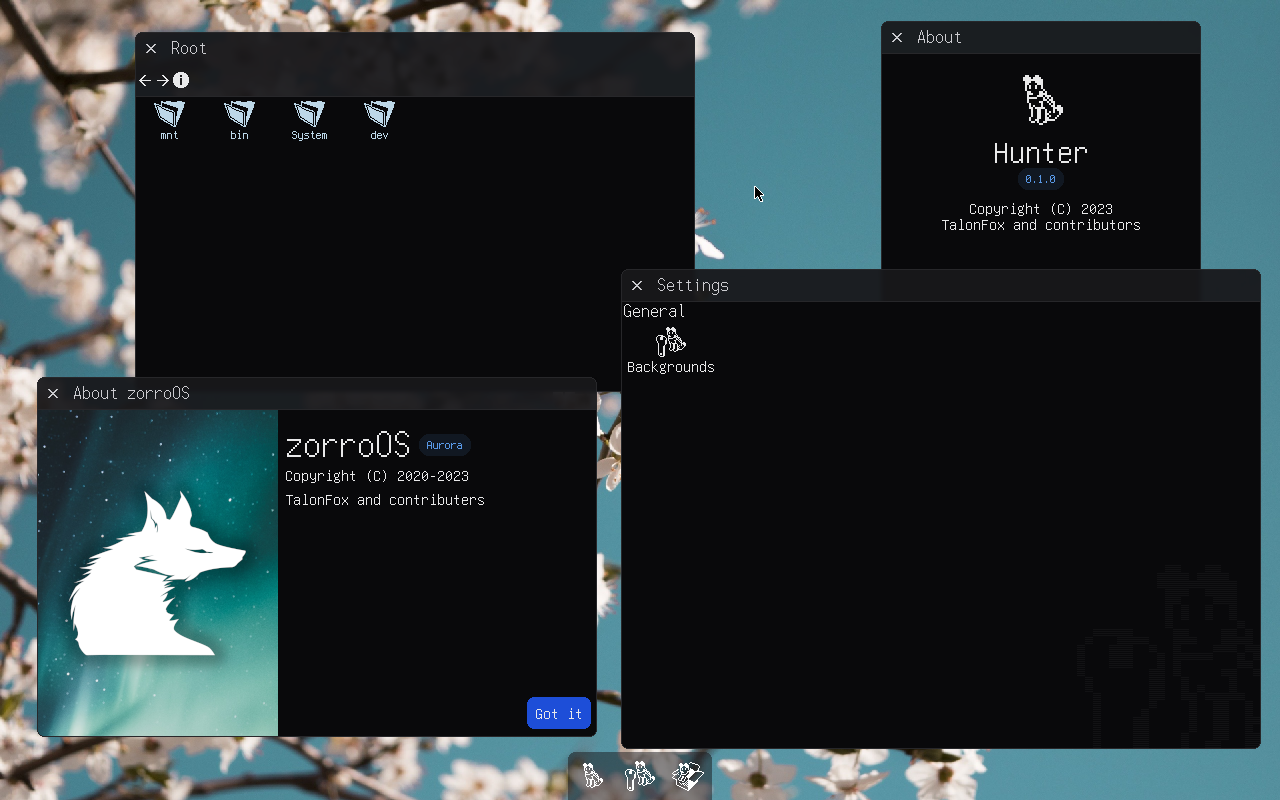
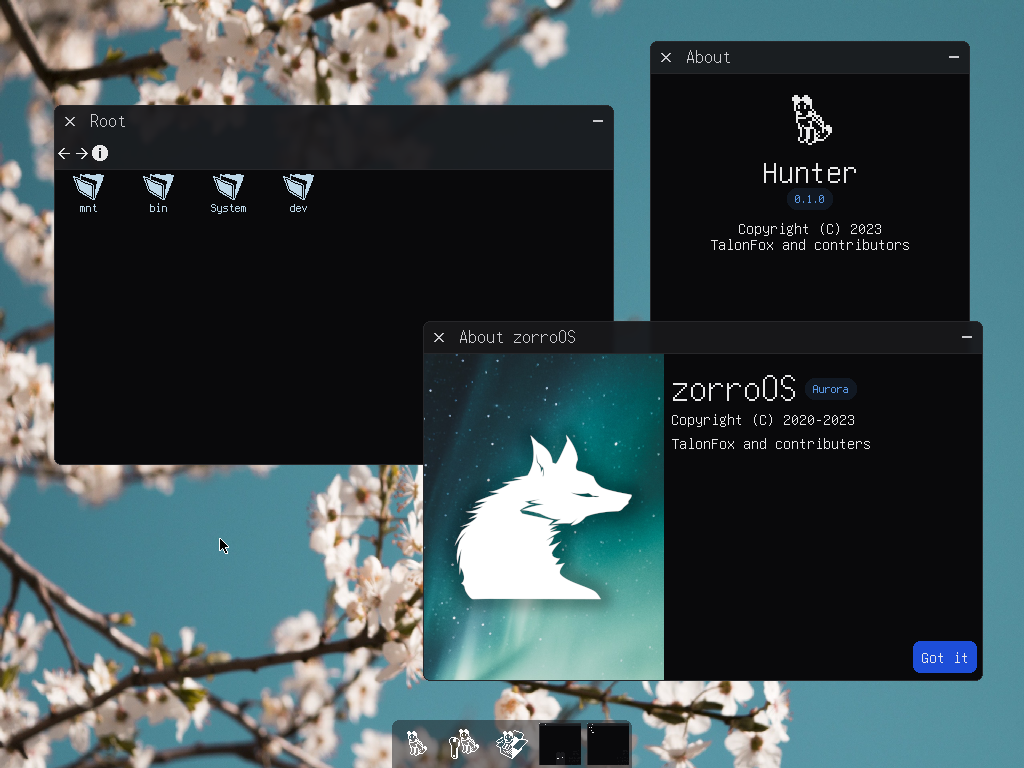
Window stuff :3

diff --git a/userspace/services/raven/main.c b/userspace/services/raven/main.c
@@ -443,19 +443,31 @@ int main(int argc, const char* argv[]) {
                 }
                 win->prev = winTail;
                 win->next = NULL;
+                winTail = win;
+                if(winHead == NULL) {
+                    winHead = win;
+                }
                 win->w = packet->create.w;
                 win->h = packet->create.h;
                 win->flags = packet->create.flags;
                 win->x = (fbInfo.width/2)-(packet->create.w/2);
                 win->y = (fbInfo.height/2)-(packet->create.h/2);
+                win->creator = packet->create.creator;
+                if(win->creator != 0) {
+                    Window* creator = GetWindowByID(win->creator);
+                    if(creator != NULL) {
+                        if(win->w == creator->w && win->h == creator->h) {
+                            win->x = creator->x+32;
+                            win->y = creator->y+32;
+                        } else {
+                            win->x = (creator->x+(creator->w/2))-(win->w/2);
+                            win->y = (creator->y+(creator->h/2))-(win->h/2);
+                        }
+                    }
+                }
                 win->shmID = NewSharedMemory((win->w*win->h)*4);
                 win->backBuf = MapSharedMemory(win->shmID);
                 win->frontBuf = malloc((win->w*win->h)*4);
-                win->creator = packet->create.creator;
-                winTail = win;
-                if(winHead == NULL) {
-                    winHead = win;
-                }
                 RavenCreateWindowResponse response;
                 response.id = win->id;
                 response.backBuf = win->shmID;
